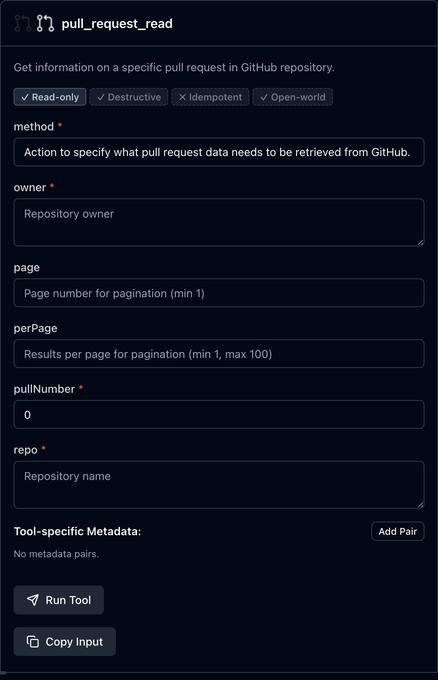
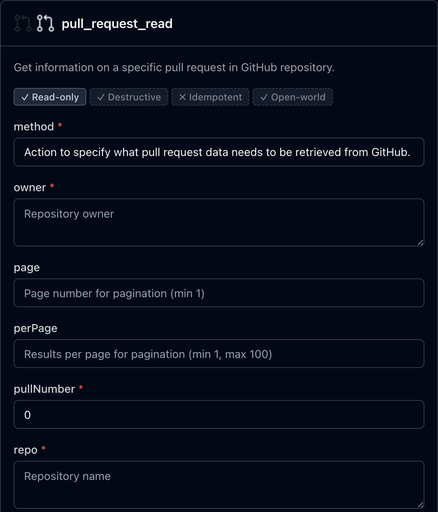
Tighten pull_request_read screenshot and caption
Crop the screenshot to end at the repo field — the metadata, Run, and
Copy Input rows didn't add to the schema-shape point. Trim the caption
to match: the cropped image already shows the fields and annotations.

diff --git a/blog/posts/2026/05-06-what-is-an-mcp.md b/blog/posts/2026/05-06-what-is-an-mcp.md
@@ -19,7 +19,7 @@ So you add the MCP, you get the functionality, everyone's happy. What's the catc
 
 ![GitHub MCP server tools list — 41 tools across PRs, issues, branches, files, search](github-mcp-tools-list-grid.png)
 
-*The `pull_request_read` tool's input schema as shown by the inspector — fixed fields, a tool-annotation row (read-only, idempotent, etc.), and a fixed output shape decided by the server.*
+*The `pull_request_read` tool's input schema as shown by the inspector.*
 
 ![pull_request_read tool detail — fixed input schema with method, owner, page, perPage, pullNumber, repo](github-mcp-pull-request-read.png)
 
